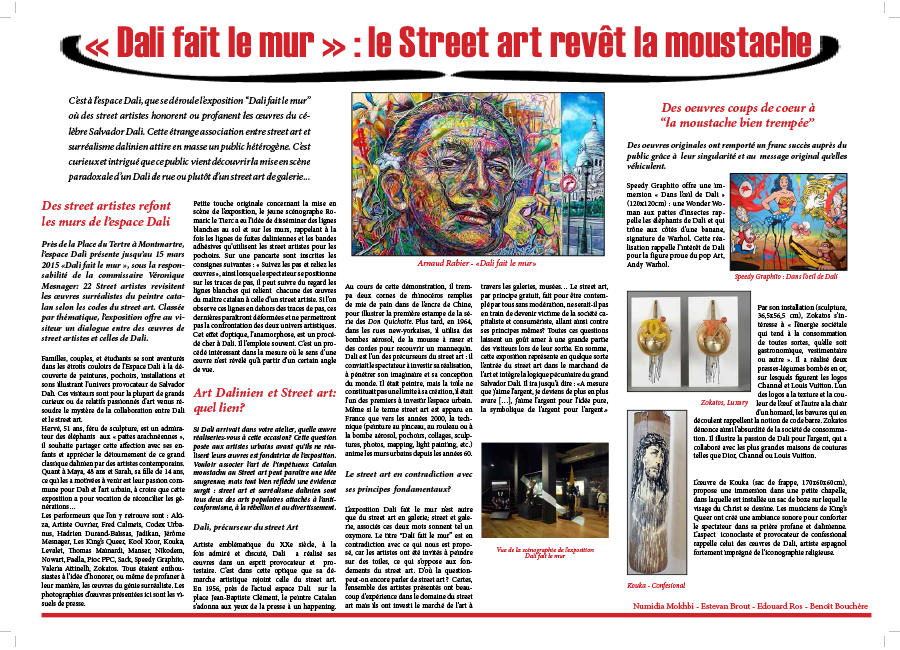
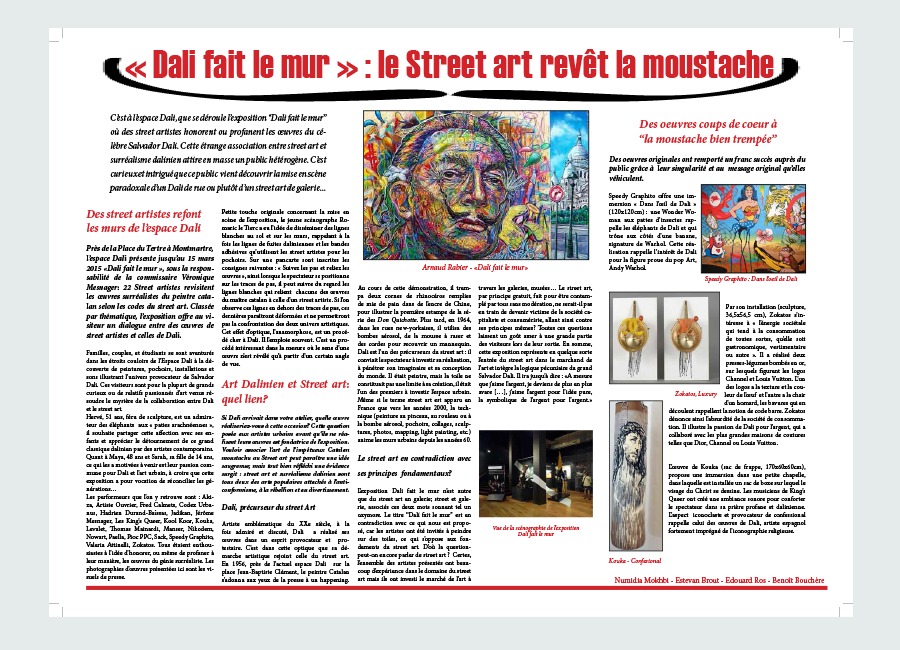
version3

diff --git a/index.html b/index.html
@@ -174,13 +174,13 @@
                     </a>
                 </div>
                 <div class="col-sm-4 portfolio-item">
-                    <a href="#portfolioModal1" class="portfolio-link" data-toggle="modal">
+                    <a href="#portfolioModal7" class="portfolio-link" data-toggle="modal">
                         <div class="caption">
                             <div class="caption-content">
                                 <i class="fa fa-search-plus fa-3x"></i>
                             </div>
                         </div>
-                        <img src="img/portfolio/Journal.png" class="img-responsive" alt="">
+                        <img src="img/portfolio/mockup journal.png" class="img-responsive" alt="">
                     </a>
                 </div>
             </div>
@@ -531,6 +531,43 @@
                                     </strong>
                                 </li>
                                 <li>Service:
+                                    <strong><a href="http://startbootstrap.com">Web Development</a>
+                                    </strong>
+                                </li> -->
+                            </ul>
+                            <button type="button" class="btn btn-default" data-dismiss="modal"><i class="fa fa-times"></i> Close</button>
+                        </div>
+                    </div>
+                </div>
+            </div>
+        </div>
+    </div>
+    <div class="portfolio-modal modal fade" id="portfolioModal7" tabindex="-1" role="dialog" aria-hidden="true">
+        <div class="modal-content">
+            <div class="close-modal" data-dismiss="modal">
+                <div class="lr">
+                    <div class="rl">
+                    </div>
+                </div>
+            </div>
+            <div class="container">
+                <div class="row">
+                    <div class="col-lg-8 col-lg-offset-2">
+                        <div class="modal-body">
+                            <h2>Projet journalistique: "Dali fait le mur"</h2>
+                            <hr class="star-primary">
+                            <img src="img/portfolio/journal.pdf" class="img-responsive img-centered" alt="">
+                            <p>Réalisation d'un article journalistique à propos de l'exposition "Dali fait le mur".</p>
+                            <ul class="list-inline item-details">
+                                <!-- <li>Client:
+                                    <strong><a href="http://startbootstrap.com">Start Bootstrap</a>
+                                    </strong>
+                                </li> -->
+                                <!-- <li>Date:
+                                    <strong><a href="http://startbootstrap.com">April 2014</a>
+                                    </strong>
+                                </li> -->
+                                <!-- <li>Service:
                                     <strong><a href="http://startbootstrap.com">Web Development</a>
                                     </strong>
                                 </li> -->
